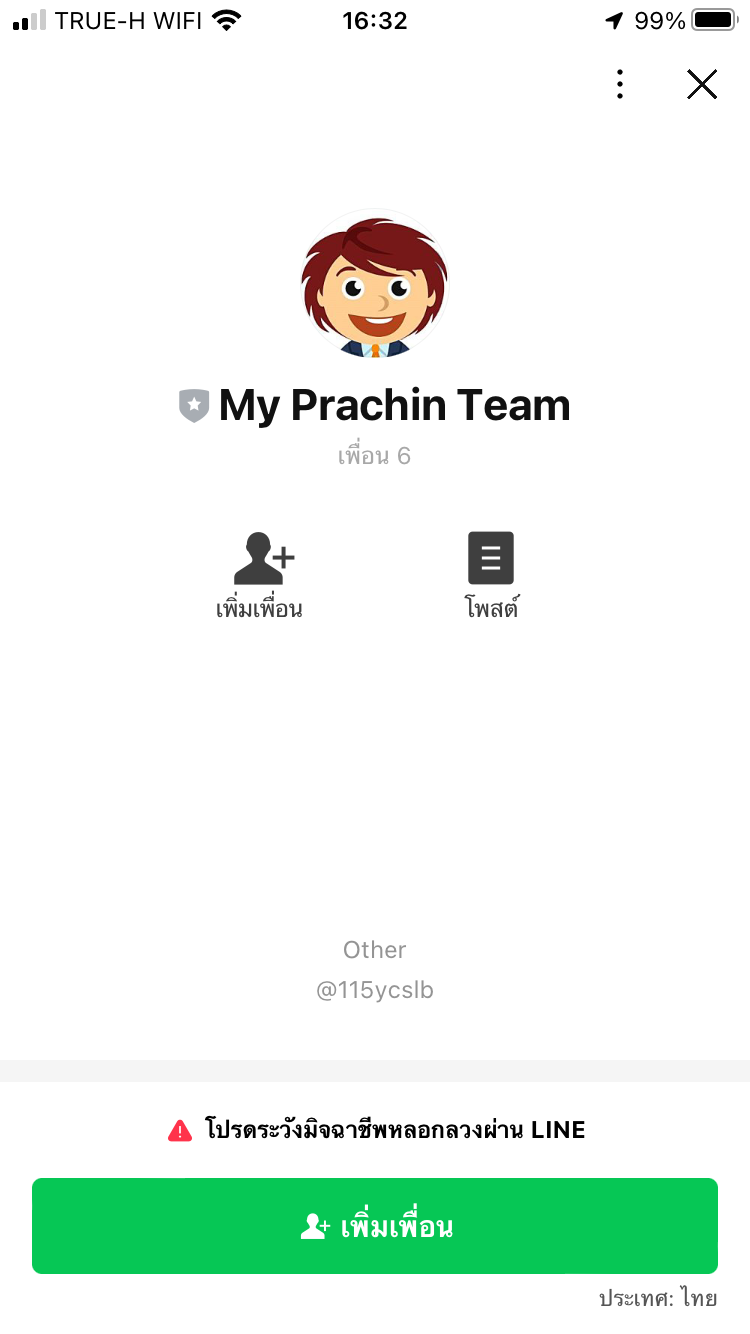
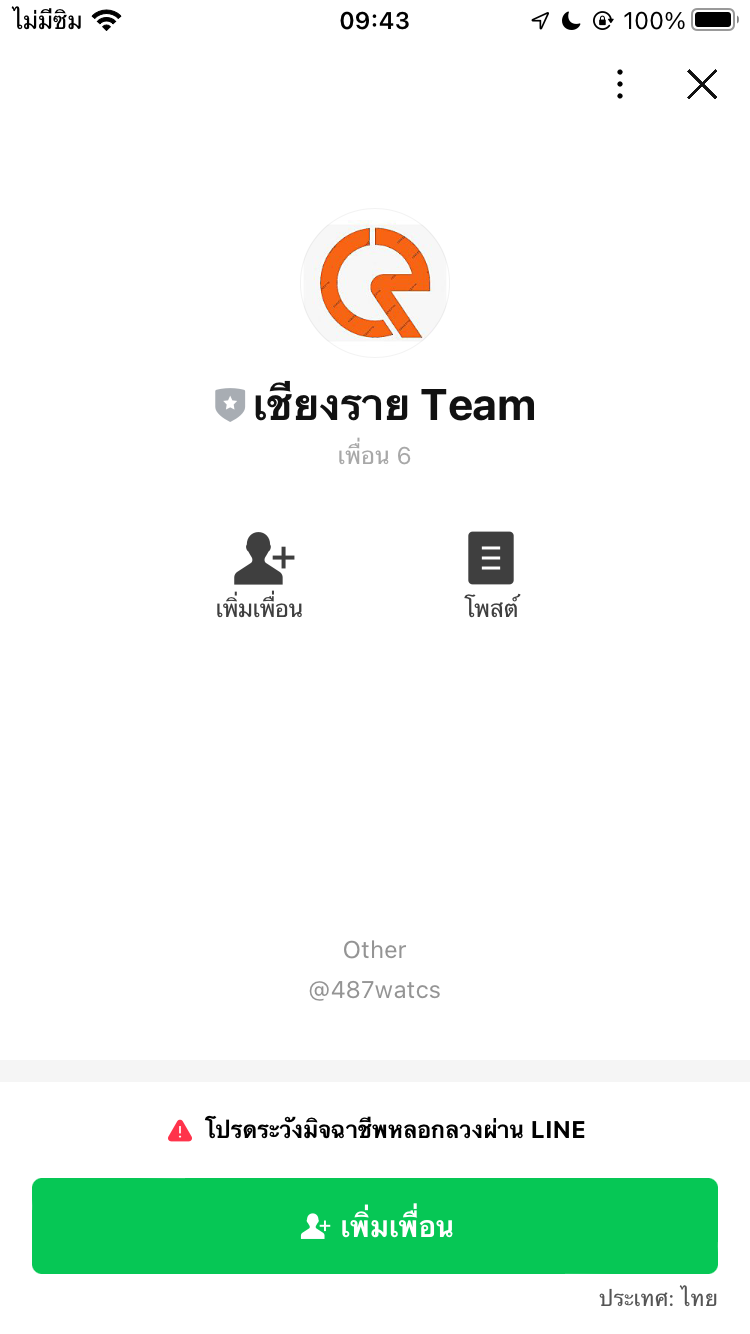
update manual

diff --git a/src/modules/Team/TeamController4.js b/src/modules/Team/TeamController4.js
@@ -39,7 +39,7 @@ async edit (req,res) {
         const FormControl = { 
             System:         'Team',
             Page:           'EditTeam',
-            Title:          'My Prachin Team',
+            Title:          'เชียงราย Team',
             ENVIRONMENT:    process.env.ENVIRONMENT,
             DateLanguage:   (team.Language == 'en') ? 'en' : 'th-th',
             Image:          (team.Picture == '') ? '' : 
